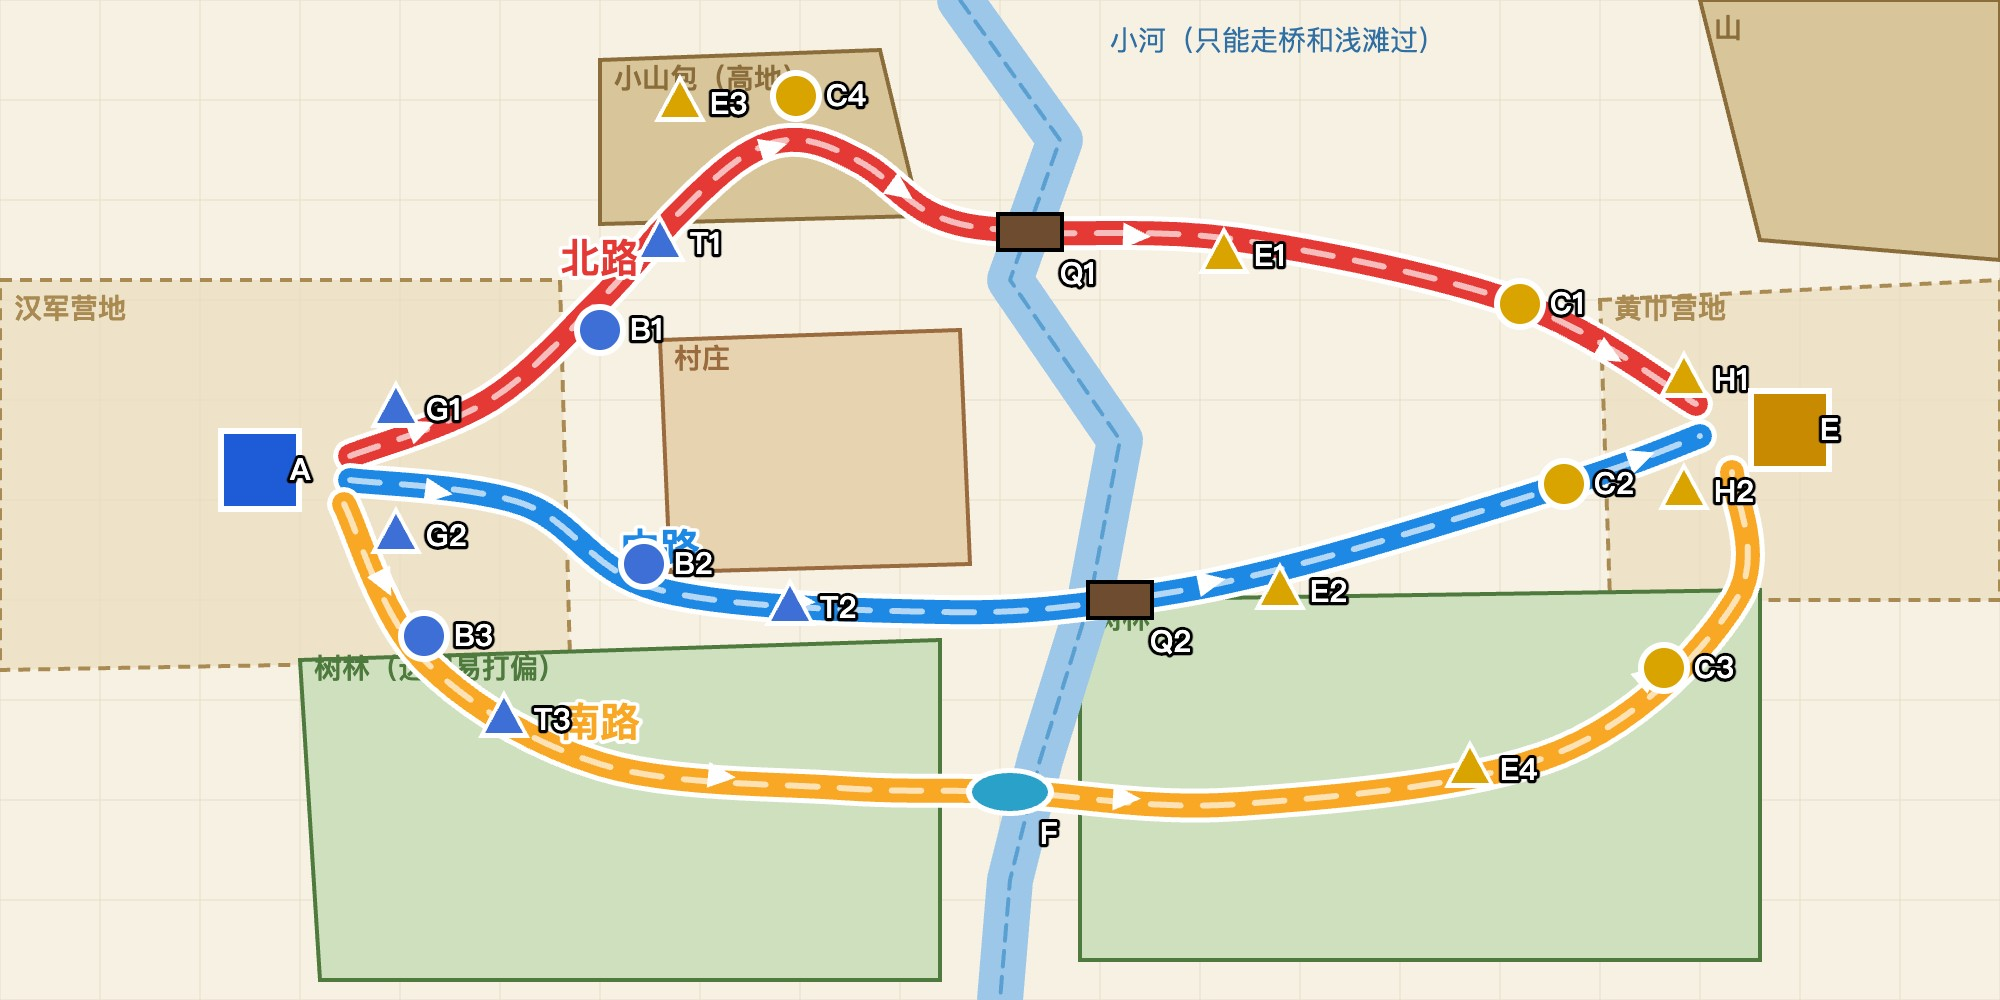
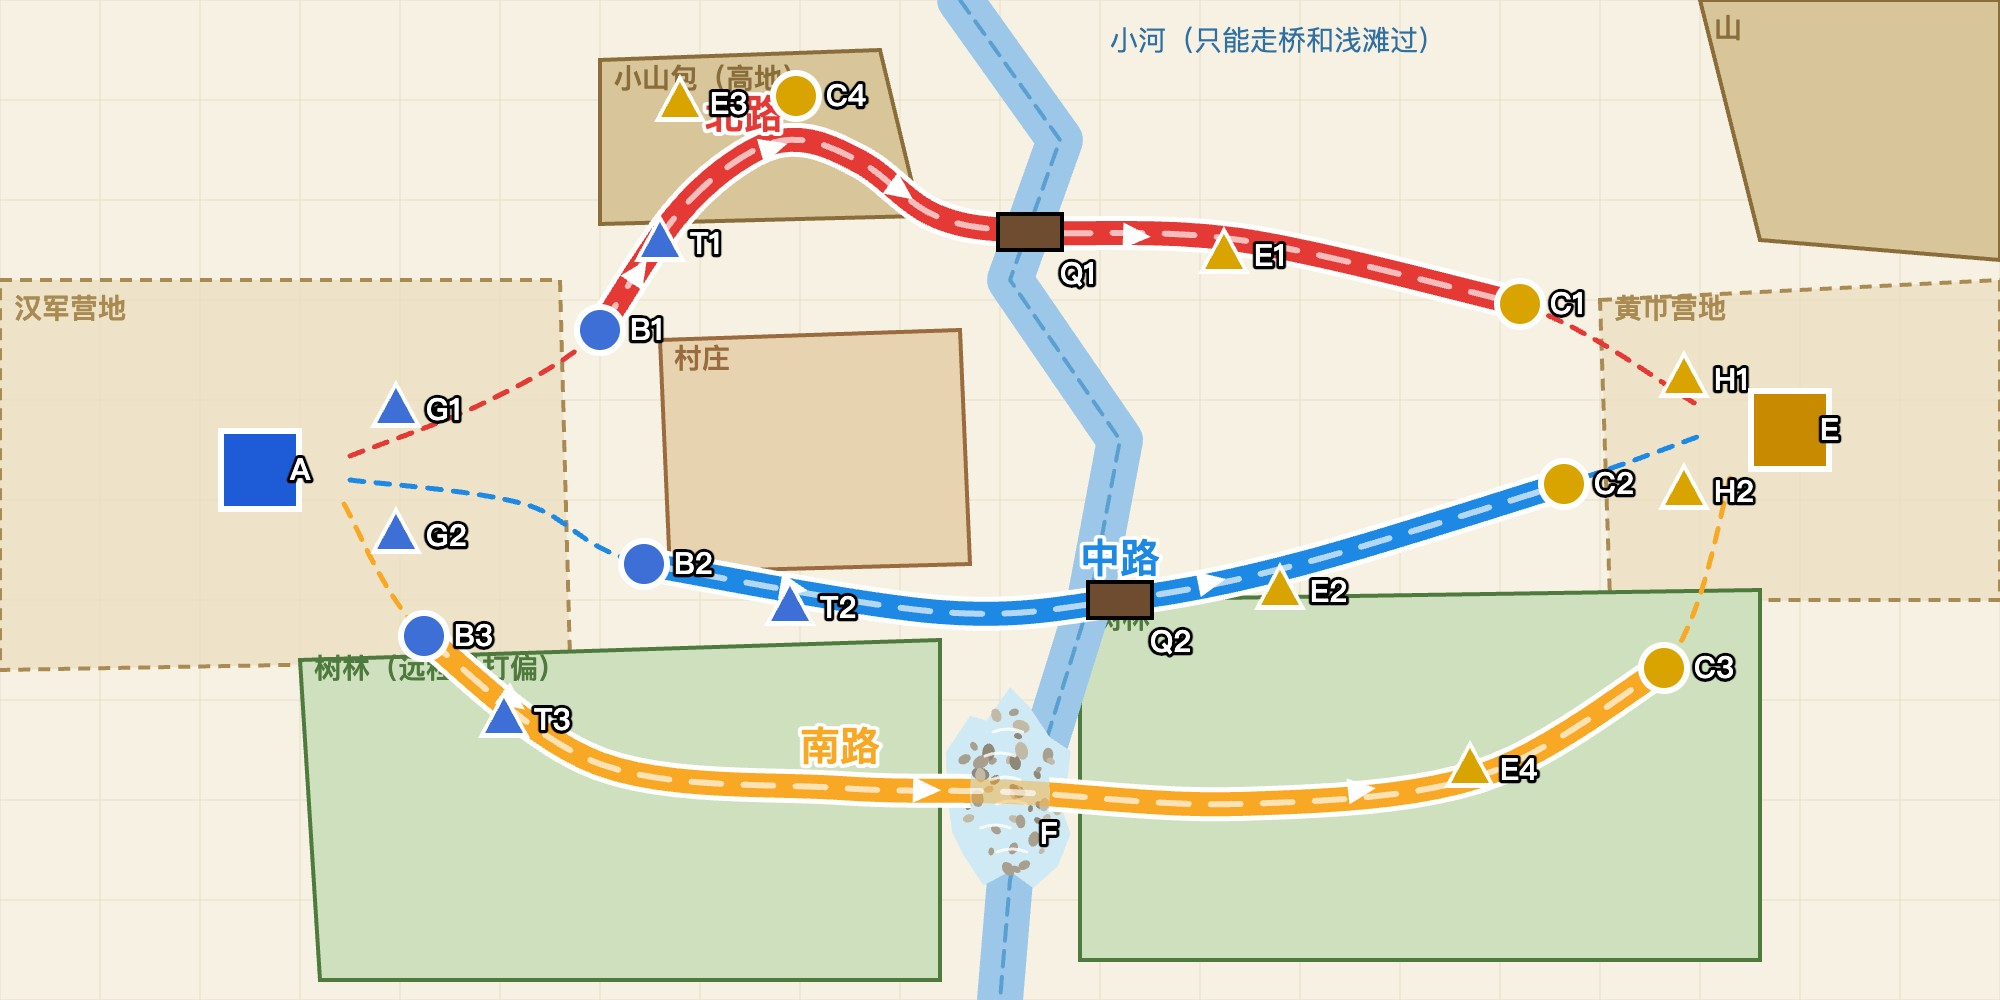
涿郡路线规划：浅滩画成卵石浅水；路只从兵营画到敌方兵营，兵营到主城只标进攻路线

diff --git a/docs/涿郡路线规划.html b/docs/涿郡路线规划.html
@@ -7,9 +7,9 @@ h2{margin:6px 0 8px}.k{display:inline-block;width:26px;height:26px;border-radius
 // 坐标用 1000×500（和地形图缩略图一致），画到 2000×1000
 const K=2;
 const ROUTES={
- 北路:{c:'#e53935',p:[[175,228],[245,200],[300,150],[338,108],[372,78],[400,70],[432,82],[468,108],[515,116],[620,120],[760,152],[848,202]],note:'必经小山包：上坡、翻过山顶（黄巾占着）、下坡，再过北桥；上坡移速 -25%'},
- 中路:{c:'#1e88e5',p:[[175,240],[262,252],[330,295],[470,306],[560,300],[650,282],[790,240],[850,218]],note:'最短；沿村庄南边；中桥窄，会挤'},
- 南路:{c:'#f9a825',p:[[172,252],[212,330],[300,382],[420,394],[505,396],[620,402],[780,376],[868,300],[866,236]],note:'穿两片树林，浅滩涉水；最慢；树林里远程易打偏'},
+ 北路:{c:'#e53935',road:[2,10],p:[[175,228],[245,200],[300,165],[338,108],[372,78],[400,70],[432,82],[468,108],[515,116],[620,120],[760,152],[848,202]],note:'必经小山包：上坡、翻过山顶（黄巾占着）、下坡，再过北桥；上坡移速 -25%'},
+ 中路:{c:'#1e88e5',road:[2,6],p:[[175,240],[262,252],[322,282],[470,306],[560,300],[650,282],[782,242],[850,218]],note:'最短；沿村庄南边；中桥窄，会挤'},
+ 南路:{c:'#f9a825',road:[1,7],p:[[172,252],[212,318],[300,382],[420,394],[505,396],[620,402],[740,388],[832,334],[866,236]],note:'穿两片树林，浅滩涉水；最慢；树林里远程易打偏'},
 };
 // 关键点位：[编号, 名称, x, y, 类型, 说明]
 const PTS=[
@@ -37,6 +37,13 @@ const PTS=[
  ['H2','黄巾门牙塔·下',842,246,'etower','大本营正面，两座门牙塔之一'],
  ['E','黄巾大营',895,215,'ebase','右边夯土空地中央，背靠山'],
 ];
+function fordDraw(g,X,Y,ref){// 浅滩：河道在这里变宽变浅，水色发白，露出卵石；不规则的形状，顺着河道
+ let seed=13;const rnd=()=>(seed=(seed*16807)%2147483647)/2147483647;
+ g.beginPath();const n=16;for(let i=0;i<=n;i++){const a=i/n*Math.PI*2,rx=58*(0.8+rnd()*0.4),ry=92*(0.8+rnd()*0.4),x=X+Math.cos(a)*rx,y=Y+Math.sin(a)*ry;i?g.lineTo(x,y):g.moveTo(x,y)}g.closePath();
+ g.fillStyle=ref?'#bfe0ef':'#cfe9f5';g.fill();
+ for(let i=0;i<46;i++){const a=rnd()*7,d=Math.sqrt(rnd()),x=X+Math.cos(a)*50*d,y=Y+Math.sin(a)*80*d,r=3+rnd()*6;g.beginPath();g.ellipse(x,y,r,r*0.7,rnd()*3,0,7);g.fillStyle=['#a89f8f','#8f8778','#c2b9a6'][i%3];g.fill()}
+ // 涉水的水花：几道白色短波纹
+ g.strokeStyle='#ffffffcc';g.lineWidth=3;for(let i=0;i<6;i++){const y=Y-60+i*24,x=X-30+rnd()*20;g.beginPath();g.moveTo(x,y);g.quadraticCurveTo(x+15,y-6,x+30,y);g.stroke()}}
 const COL={base:'#1e5bd6',camp:'#3d6fd6',tower:'#3d6fd6',bridge:'#6d4c2f',ford:'#2aa1c9',ecamp:'#d9a400',etower:'#d9a400',merge:'#8e24aa',ebase:'#c78a00'};
 function curve(g,p){g.beginPath();g.moveTo(...p[0]);for(let i=0;i<p.length-1;i++){const p0=p[Math.max(0,i-1)],p1=p[i],p2=p[i+1],p3=p[Math.min(p.length-1,i+2)];
  g.bezierCurveTo(p1[0]+(p2[0]-p0[0])/6,p1[1]+(p2[1]-p0[1])/6,p2[0]-(p3[0]-p1[0])/6,p2[1]-(p3[1]-p1[1])/6,p2[0],p2[1])}}
@@ -58,10 +65,15 @@ function curve(g,p){g.beginPath();g.moveTo(...p[0]);for(let i=0;i<p.length-1;i++
  g.beginPath();[[480,0],[530,70],[505,140],[560,220],[545,300],[520,380],[505,440],[500,500]].forEach(([x,y],i)=>i?g.lineTo(x*K,y*K):g.moveTo(x*K,y*K));
  g.strokeStyle='#9cc7e8';g.lineWidth=46;g.lineCap='round';g.lineJoin='round';g.stroke();g.strokeStyle='#5a9fd1';g.lineWidth=4;g.setLineDash([16,10]);g.stroke();g.setLineDash([]);
  g.font='28px PingFang SC';g.fillStyle='#2f6fa3';g.fillText('小河（只能走桥和浅滩过）',1110,50);
+ fordDraw(g,505*K,396*K,false);
  const g2=g;
- for(const[n,r]of Object.entries(ROUTES)){const p=r.p.map(([x,y])=>[x*K,y*K]);
+ for(const[n,r]of Object.entries(ROUTES)){const P=r.p.map(([x,y])=>[x*K,y*K]);
+  // 进攻路线全程（细虚线，不是路）
+  curve(g,P);g.setLineDash([14,12]);g.strokeStyle=r.c;g.lineWidth=5;g.lineCap='round';g.stroke();g.setLineDash([]);
+  // 路只画兵营到敌方兵营这一段
+  const p=P.slice(r.road[0],r.road[1]+1);
   curve(g,p);g.strokeStyle='#fff';g.lineWidth=34;g.lineCap='round';g.lineJoin='round';g.stroke();
-  curve(g,p);g.strokeStyle=r.c;g.lineWidth=n==='坡道'?14:24;g.stroke();
+  curve(g,p);g.strokeStyle=r.c;g.lineWidth=n==='坡道'?14:24;g.stroke();if(n==='南路'){g.save();g.beginPath();g.ellipse(505*K,396*K,40,70,0,0,7);g.clip();fordDraw(g,505*K,396*K,false);g.globalAlpha=0.45;curve(g,p);g.strokeStyle=r.c;g.lineWidth=24;g.stroke();g.restore()}
   curve(g,p);g.setLineDash([30,22]);g.strokeStyle='#ffffffaa';g.lineWidth=6;g.stroke();g.setLineDash([]);
   // 方向箭头
   for(let i=1;i<p.length;i+=2){const a=Math.atan2(p[i][1]-p[i-1][1],p[i][0]-p[i-1][0]);g.save();g.translate((p[i][0]+p[i-1][0])/2,(p[i][1]+p[i-1][1])/2);g.rotate(a);
@@ -69,7 +81,7 @@ function curve(g,p){g.beginPath();g.moveTo(...p[0]);for(let i=0;i<p.length-1;i++
   const q=p[2];g.font='bold 40px PingFang SC';g.lineWidth=8;g.strokeStyle='#fff';g.strokeText(n,q[0]-40,q[1]-28);g.fillStyle=r.c;g.fillText(n,q[0]-40,q[1]-28);}
  for(const[id,name,x,y,t]of PTS){const X=x*K,Y=y*K,c=COL[t];g.beginPath();
   if(t==='bridge'){g.save();g.translate(X,Y);g.fillStyle='#000';g.fillRect(-34,-20,68,40);g.fillStyle=c;g.fillRect(-30,-16,60,32);g.restore()}
-  else if(t==='ford'){g.beginPath();g.ellipse(X,Y,44,24,0,0,7);g.fillStyle='#fff';g.fill();g.beginPath();g.ellipse(X,Y,38,19,0,0,7);g.fillStyle=c;g.fill()}
+  else if(t==='ford'){}
   else if(t.includes('tower')){g.beginPath();g.moveTo(X,Y-30);g.lineTo(X+26,Y+18);g.lineTo(X-26,Y+18);g.closePath();g.fillStyle='#fff';g.fill();g.beginPath();g.moveTo(X,Y-22);g.lineTo(X+19,Y+13);g.lineTo(X-19,Y+13);g.closePath();g.fillStyle=c;g.fill()}
   else if(t.includes('base')){g.fillStyle='#fff';g.fillRect(X-42,Y-42,84,84);g.fillStyle=c;g.fillRect(X-36,Y-36,72,72)}
   else{g.beginPath();g.arc(X,Y,t==='merge'?20:26,0,7);g.fillStyle='#fff';g.fill();g.beginPath();g.arc(X,Y,t==='merge'?14:20,0,7);g.fillStyle=c;g.fill()}

diff --git a/docs/涿郡出图参考.html b/docs/涿郡出图参考.html
@@ -7,9 +7,9 @@ h2{margin:6px 0 8px}.k{display:inline-block;width:26px;height:26px;border-radius
 // 坐标用 1000×500（和地形图缩略图一致），画到 2000×1000
 const K=2;
 const ROUTES={
- 北路:{c:'#e53935',p:[[175,228],[245,200],[300,150],[338,108],[372,78],[400,70],[432,82],[468,108],[515,116],[620,120],[760,152],[848,202]],note:'必经小山包：上坡、翻过山顶（黄巾占着）、下坡，再过北桥；上坡移速 -25%'},
- 中路:{c:'#1e88e5',p:[[175,240],[262,252],[330,295],[470,306],[560,300],[650,282],[790,240],[850,218]],note:'最短；沿村庄南边；中桥窄，会挤'},
- 南路:{c:'#f9a825',p:[[172,252],[212,330],[300,382],[420,394],[505,396],[620,402],[780,376],[868,300],[866,236]],note:'穿两片树林，浅滩涉水；最慢；树林里远程易打偏'},
+ 北路:{c:'#e53935',road:[2,10],p:[[175,228],[245,200],[300,165],[338,108],[372,78],[400,70],[432,82],[468,108],[515,116],[620,120],[760,152],[848,202]],note:'必经小山包：上坡、翻过山顶（黄巾占着）、下坡，再过北桥；上坡移速 -25%'},
+ 中路:{c:'#1e88e5',road:[2,6],p:[[175,240],[262,252],[322,282],[470,306],[560,300],[650,282],[782,242],[850,218]],note:'最短；沿村庄南边；中桥窄，会挤'},
+ 南路:{c:'#f9a825',road:[1,7],p:[[172,252],[212,318],[300,382],[420,394],[505,396],[620,402],[740,388],[832,334],[866,236]],note:'穿两片树林，浅滩涉水；最慢；树林里远程易打偏'},
 };
 // 关键点位：[编号, 名称, x, y, 类型, 说明]
 const PTS=[
@@ -31,6 +31,13 @@ const PTS=[
  ['M','三路汇合',838,214,'merge','三条路在敌营前汇合'],
  ['E','黄巾大营',890,212,'ebase','右边夯土空地中央，背靠山'],
 ];
+function fordDraw(g,X,Y,ref){// 浅滩：河道在这里变宽变浅，水色发白，露出卵石；不规则的形状，顺着河道
+ let seed=13;const rnd=()=>(seed=(seed*16807)%2147483647)/2147483647;
+ g.beginPath();const n=16;for(let i=0;i<=n;i++){const a=i/n*Math.PI*2,rx=58*(0.8+rnd()*0.4),ry=92*(0.8+rnd()*0.4),x=X+Math.cos(a)*rx,y=Y+Math.sin(a)*ry;i?g.lineTo(x,y):g.moveTo(x,y)}g.closePath();
+ g.fillStyle=ref?'#bfe0ef':'#cfe9f5';g.fill();
+ for(let i=0;i<46;i++){const a=rnd()*7,d=Math.sqrt(rnd()),x=X+Math.cos(a)*50*d,y=Y+Math.sin(a)*80*d,r=3+rnd()*6;g.beginPath();g.ellipse(x,y,r,r*0.7,rnd()*3,0,7);g.fillStyle=['#a89f8f','#8f8778','#c2b9a6'][i%3];g.fill()}
+ // 涉水的水花：几道白色短波纹
+ g.strokeStyle='#ffffffcc';g.lineWidth=3;for(let i=0;i<6;i++){const y=Y-60+i*24,x=X-30+rnd()*20;g.beginPath();g.moveTo(x,y);g.quadraticCurveTo(x+15,y-6,x+30,y);g.stroke()}}
 const COL={base:'#1e5bd6',camp:'#3d6fd6',tower:'#3d6fd6',bridge:'#6d4c2f',ford:'#2aa1c9',ecamp:'#d9a400',etower:'#d9a400',merge:'#8e24aa',ebase:'#c78a00'};
 function curve(g,p){g.beginPath();g.moveTo(...p[0]);for(let i=0;i<p.length-1;i++){const p0=p[Math.max(0,i-1)],p1=p[i],p2=p[i+1],p3=p[Math.min(p.length-1,i+2)];
  g.bezierCurveTo(p1[0]+(p2[0]-p0[0])/6,p1[1]+(p2[1]-p0[1])/6,p2[0]-(p3[0]-p1[0])/6,p2[1]-(p3[1]-p1[1])/6,p2[0],p2[1])}}
@@ -52,13 +59,15 @@ function curve(g,p){g.beginPath();g.moveTo(...p[0]);for(let i=0;i<p.length-1;i++
  g.beginPath();[[480,0],[530,70],[505,140],[560,220],[545,300],[520,380],[505,440],[500,500]].forEach(([x,y],i)=>i?g.lineTo(x*K,y*K):g.moveTo(x*K,y*K));
  g.strokeStyle='#9cc7e8';g.lineWidth=46;g.lineCap='round';g.lineJoin='round';g.stroke();
  g.font='28px PingFang SC';g.fillStyle='#2f6fa3';
+ fordDraw(g,505*K,396*K,true);
  const g2=g;
- for(const[n,r]of Object.entries(ROUTES)){const p=r.p.map(([x,y])=>[x*K,y*K]);
+ for(const[n,r]of Object.entries(ROUTES)){const p=r.p.slice(r.road[0],r.road[1]+1).map(([x,y])=>[x*K,y*K]);
   curve(g,p);g.strokeStyle='#a07c48';g.lineWidth=40;g.lineCap='round';g.lineJoin='round';g.stroke();
   curve(g,p);g.strokeStyle='#dcc38c';g.lineWidth=32;g.stroke();}
+ fordDraw(g,505*K,396*K,true);
  for(const[id,name,x,y,t]of PTS){const X=x*K,Y=y*K;
   if(t==='bridge'){g.fillStyle='#6d4c2f';g.fillRect(X-36,Y-22,72,44)}
-  else if(t==='ford'){g.beginPath();g.ellipse(X,Y,46,26,0,0,7);g.fillStyle='#cfe6f2';g.fill()}
+  else if(t==='ford'){}
   else if(t==='merge'){}
   else{const r=t.includes('base')?78:t.includes('tower')?26:40;g.beginPath();g.ellipse(X,Y,r,r*0.7,0,0,7);g.fillStyle='#e8d29c';g.fill();g.strokeStyle='#b8995c';g.lineWidth=3;g.stroke()}}
  const tb=document.getElementById('t');tb.innerHTML='<tr><th>编号</th><th>点位</th><th>说明</th></tr>'+PTS.map(([id,n,x,y,t,d])=>`<tr><td><b>${id}</b></td><td>${n}</td><td>${d}</td></tr>`).join('')
